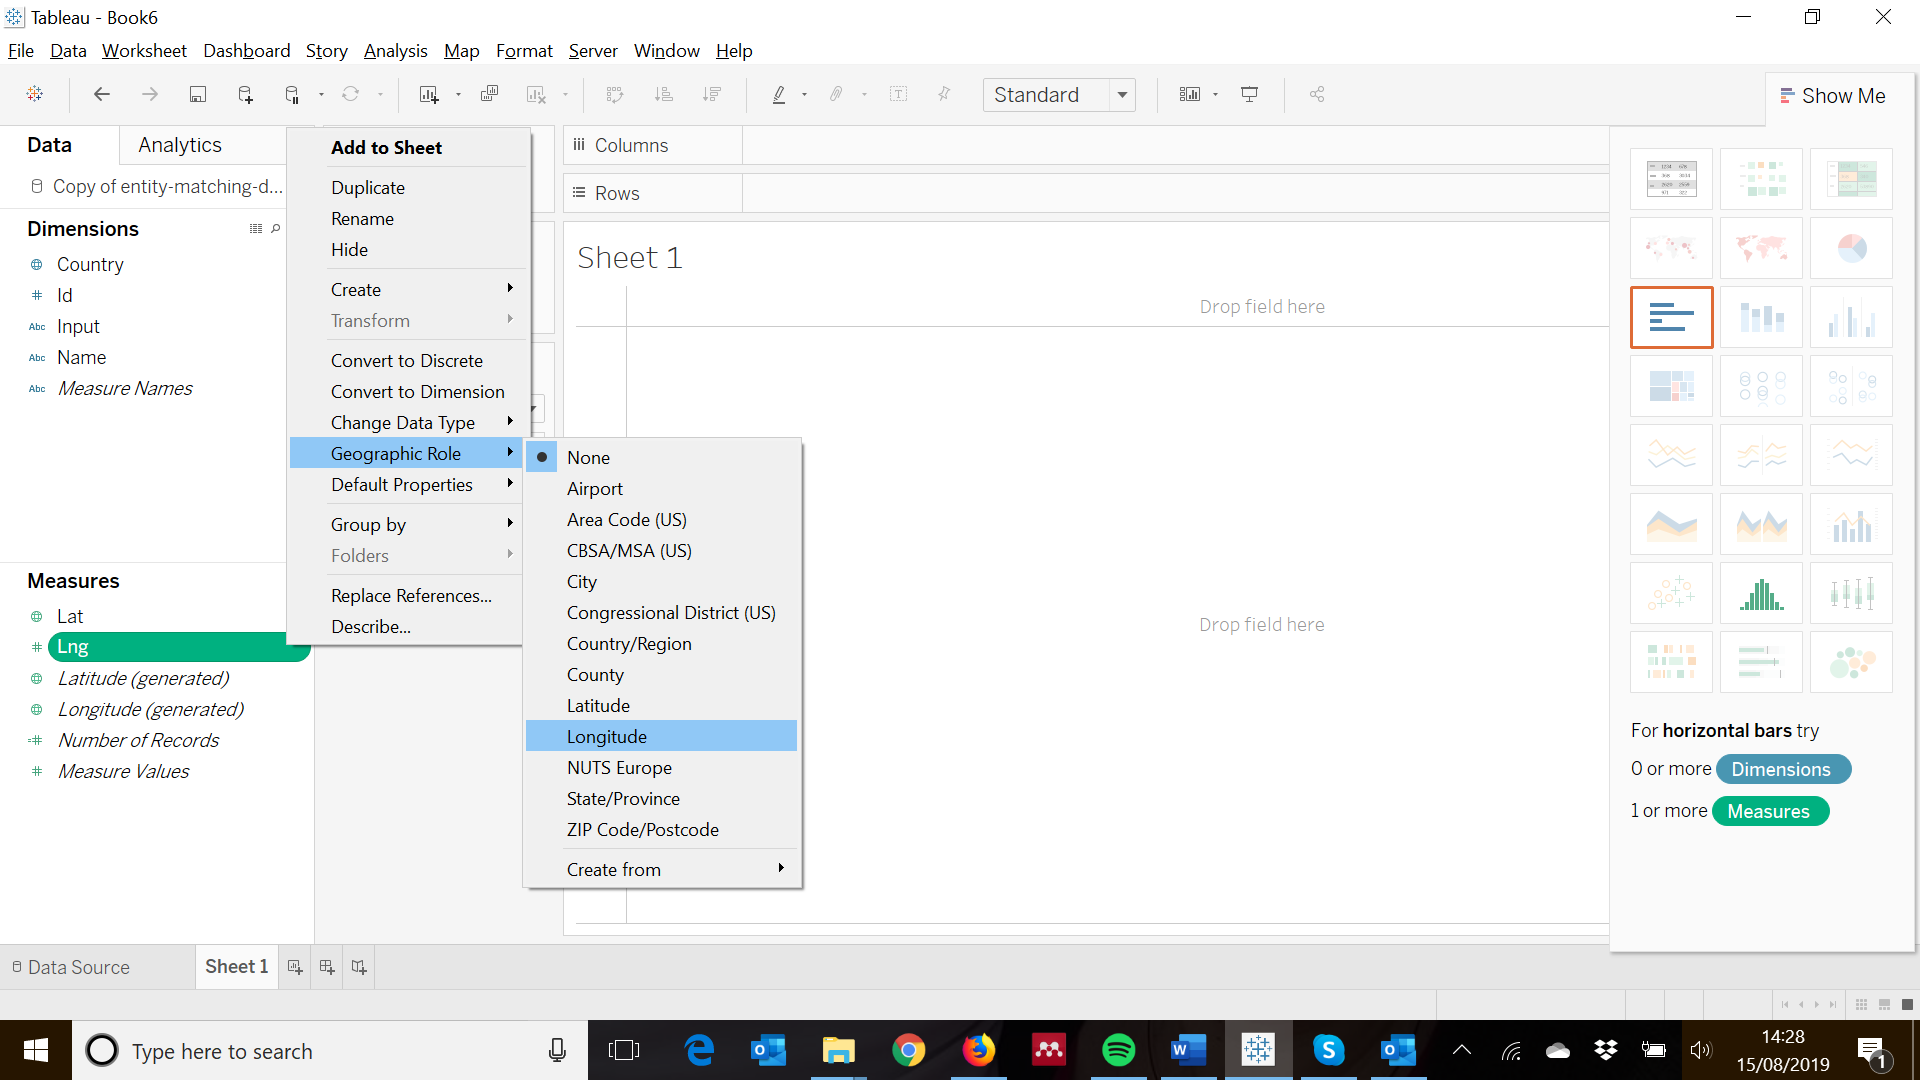
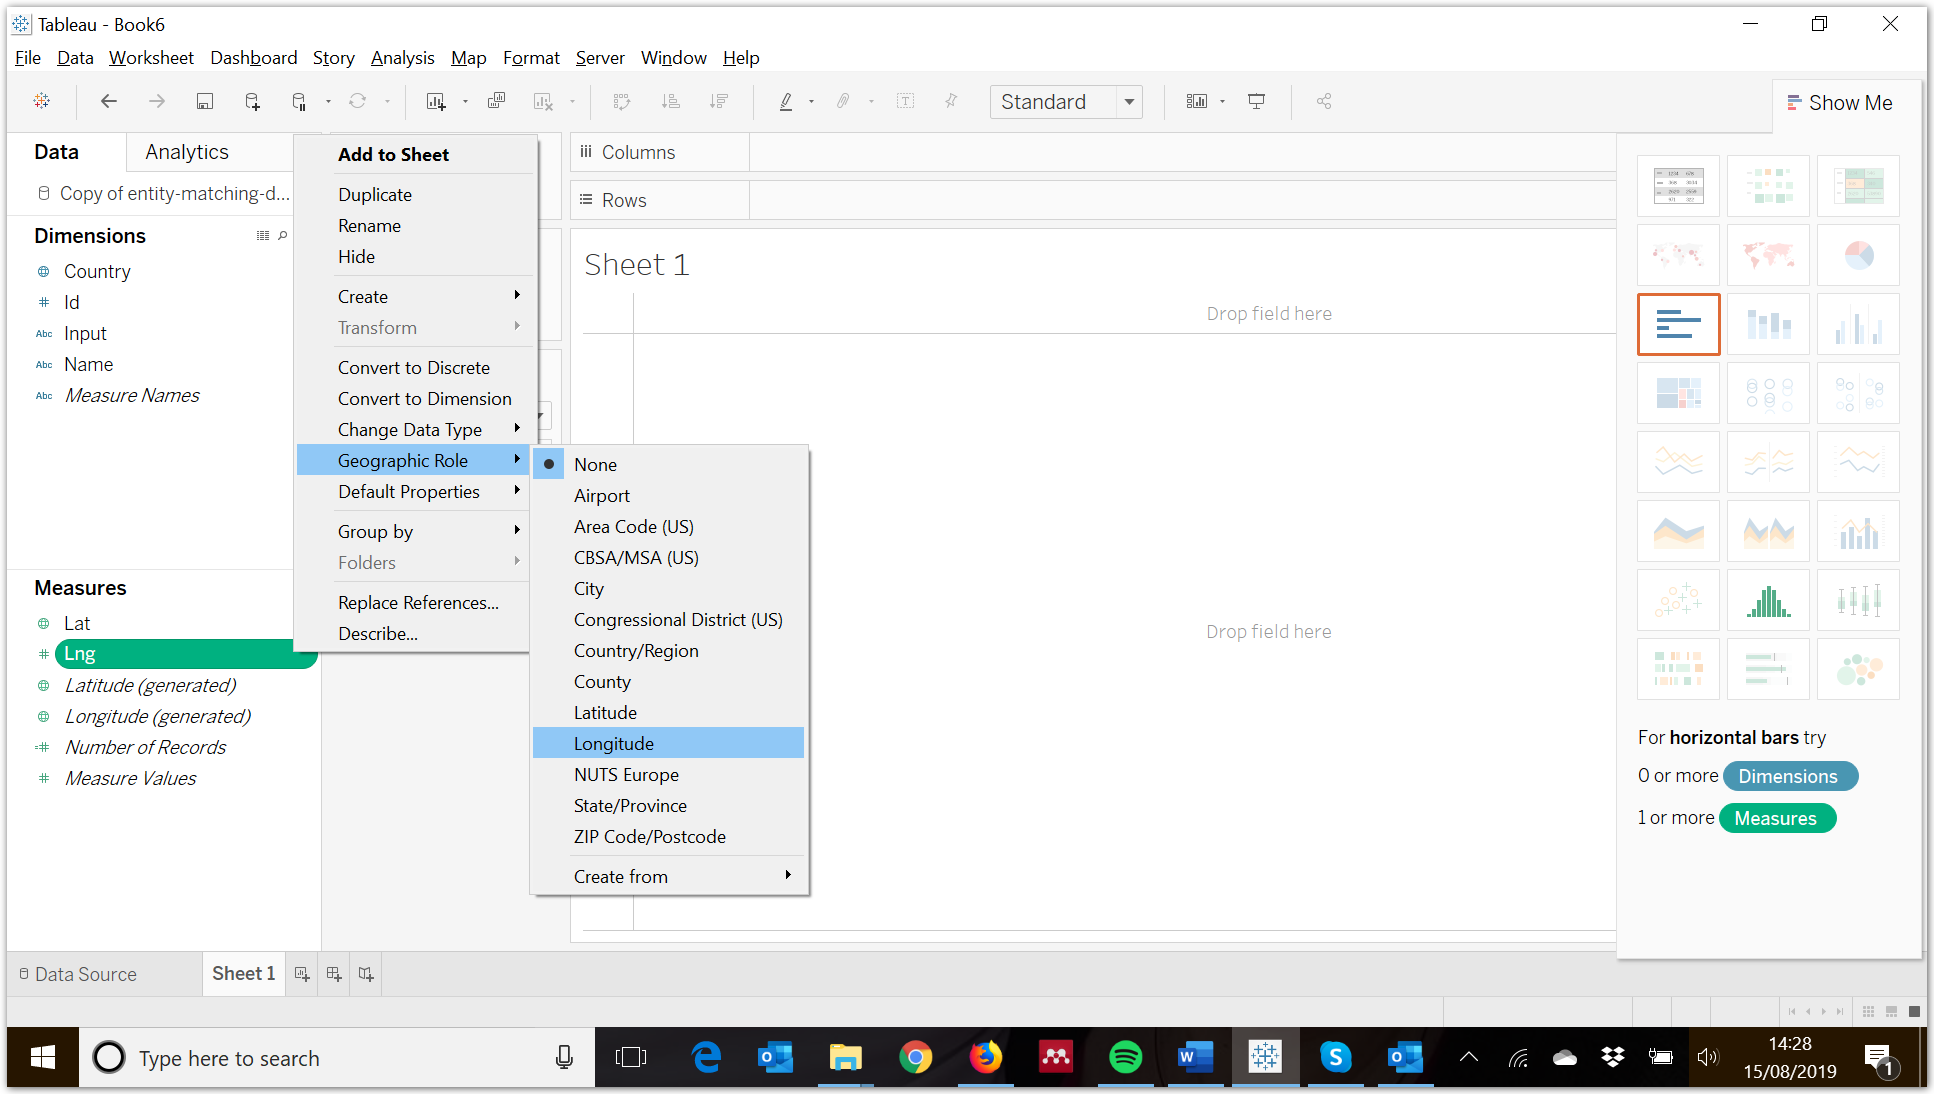
Add image drop shadows for readability
Also fix heading

diff --git a/tableau/README.md b/tableau/README.md
@@ -1,5 +1,5 @@
 Using spatial data in Tableau
-#############################
+=============================
 
 Tableau is a powerful digital tool for analysing data. In this short
 guide we will focus on one particular aspect of data analysis using
